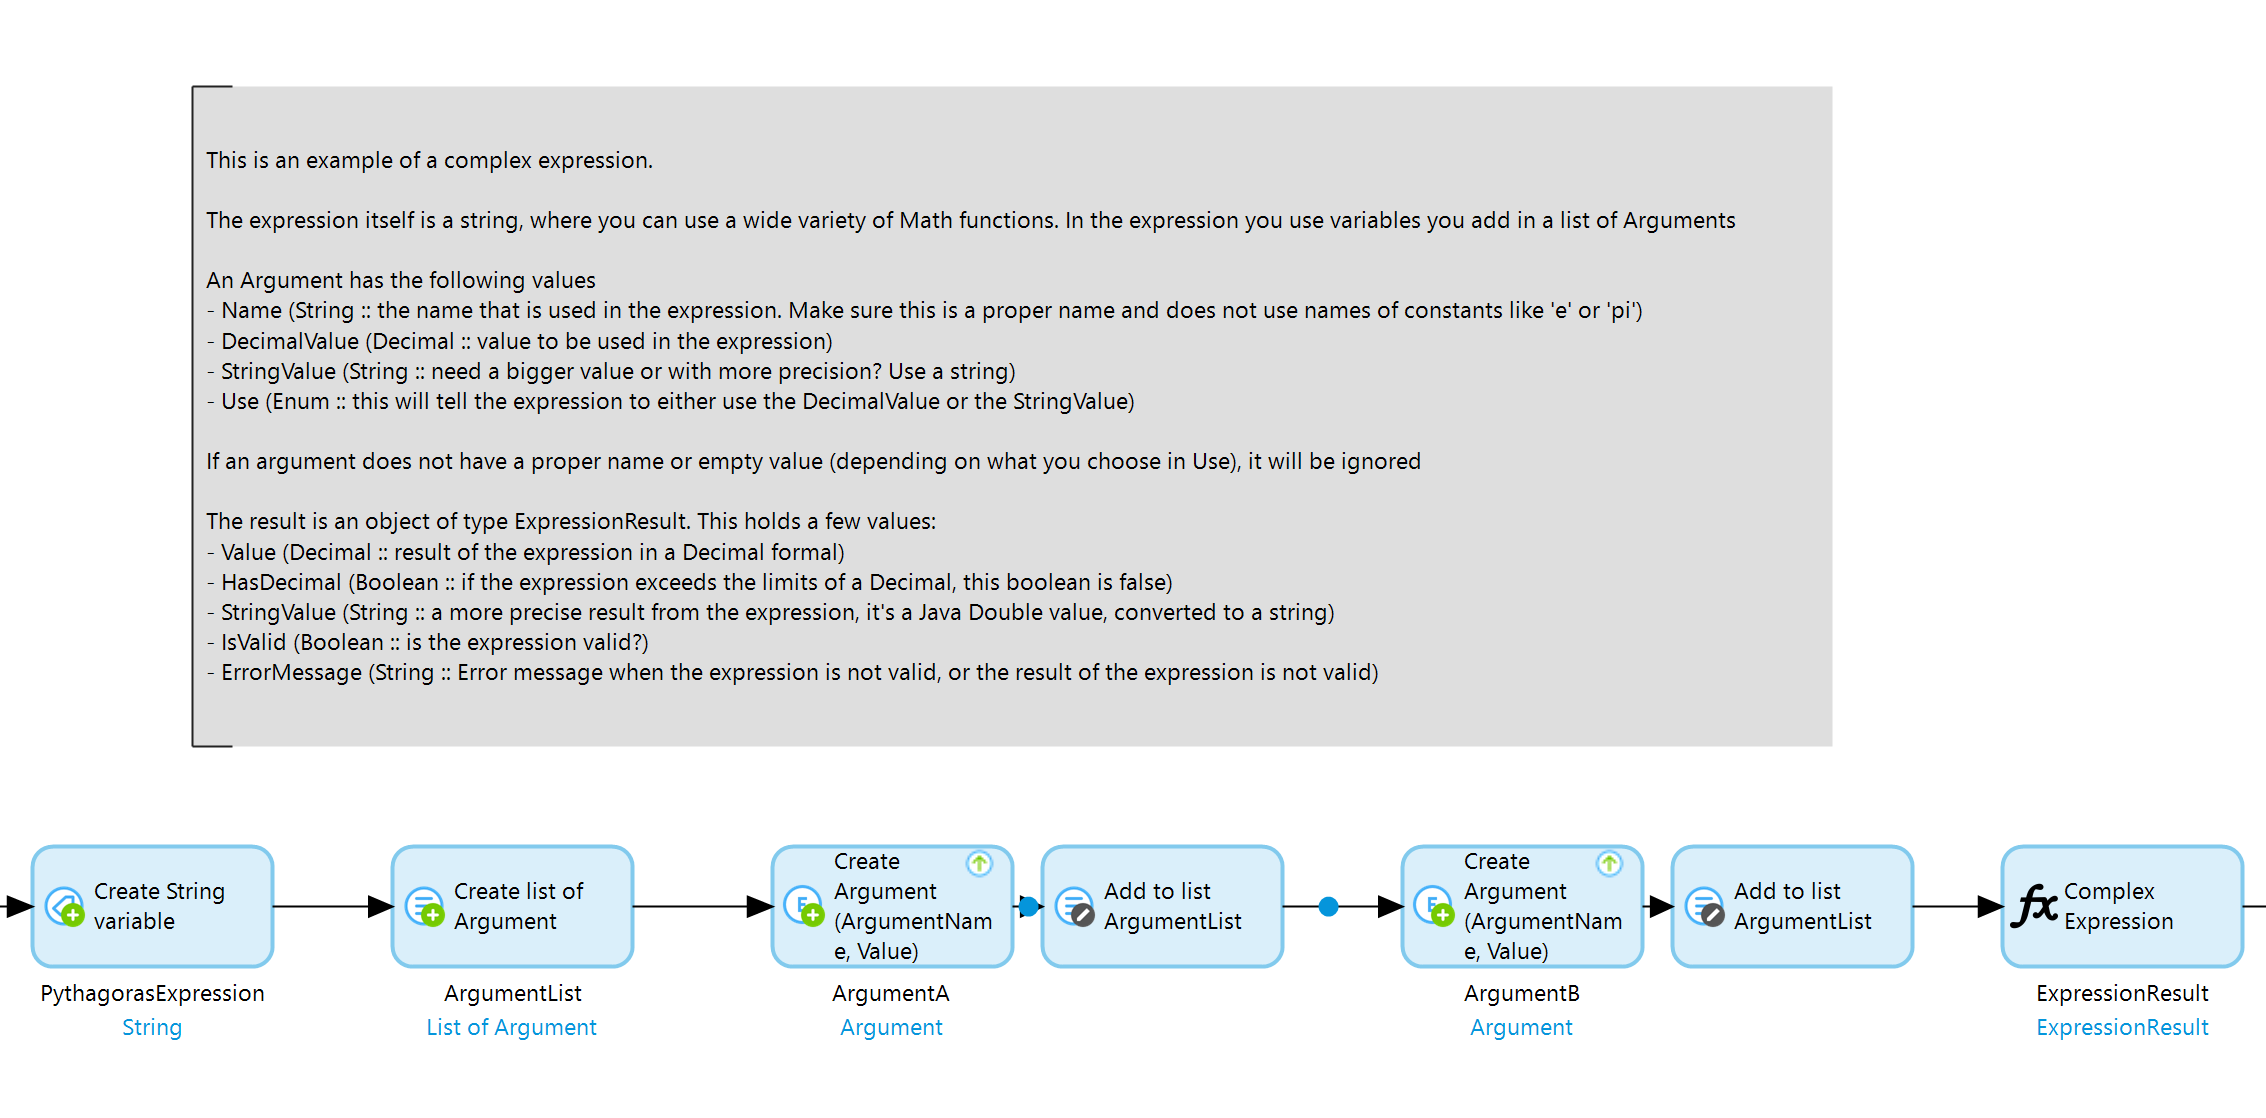
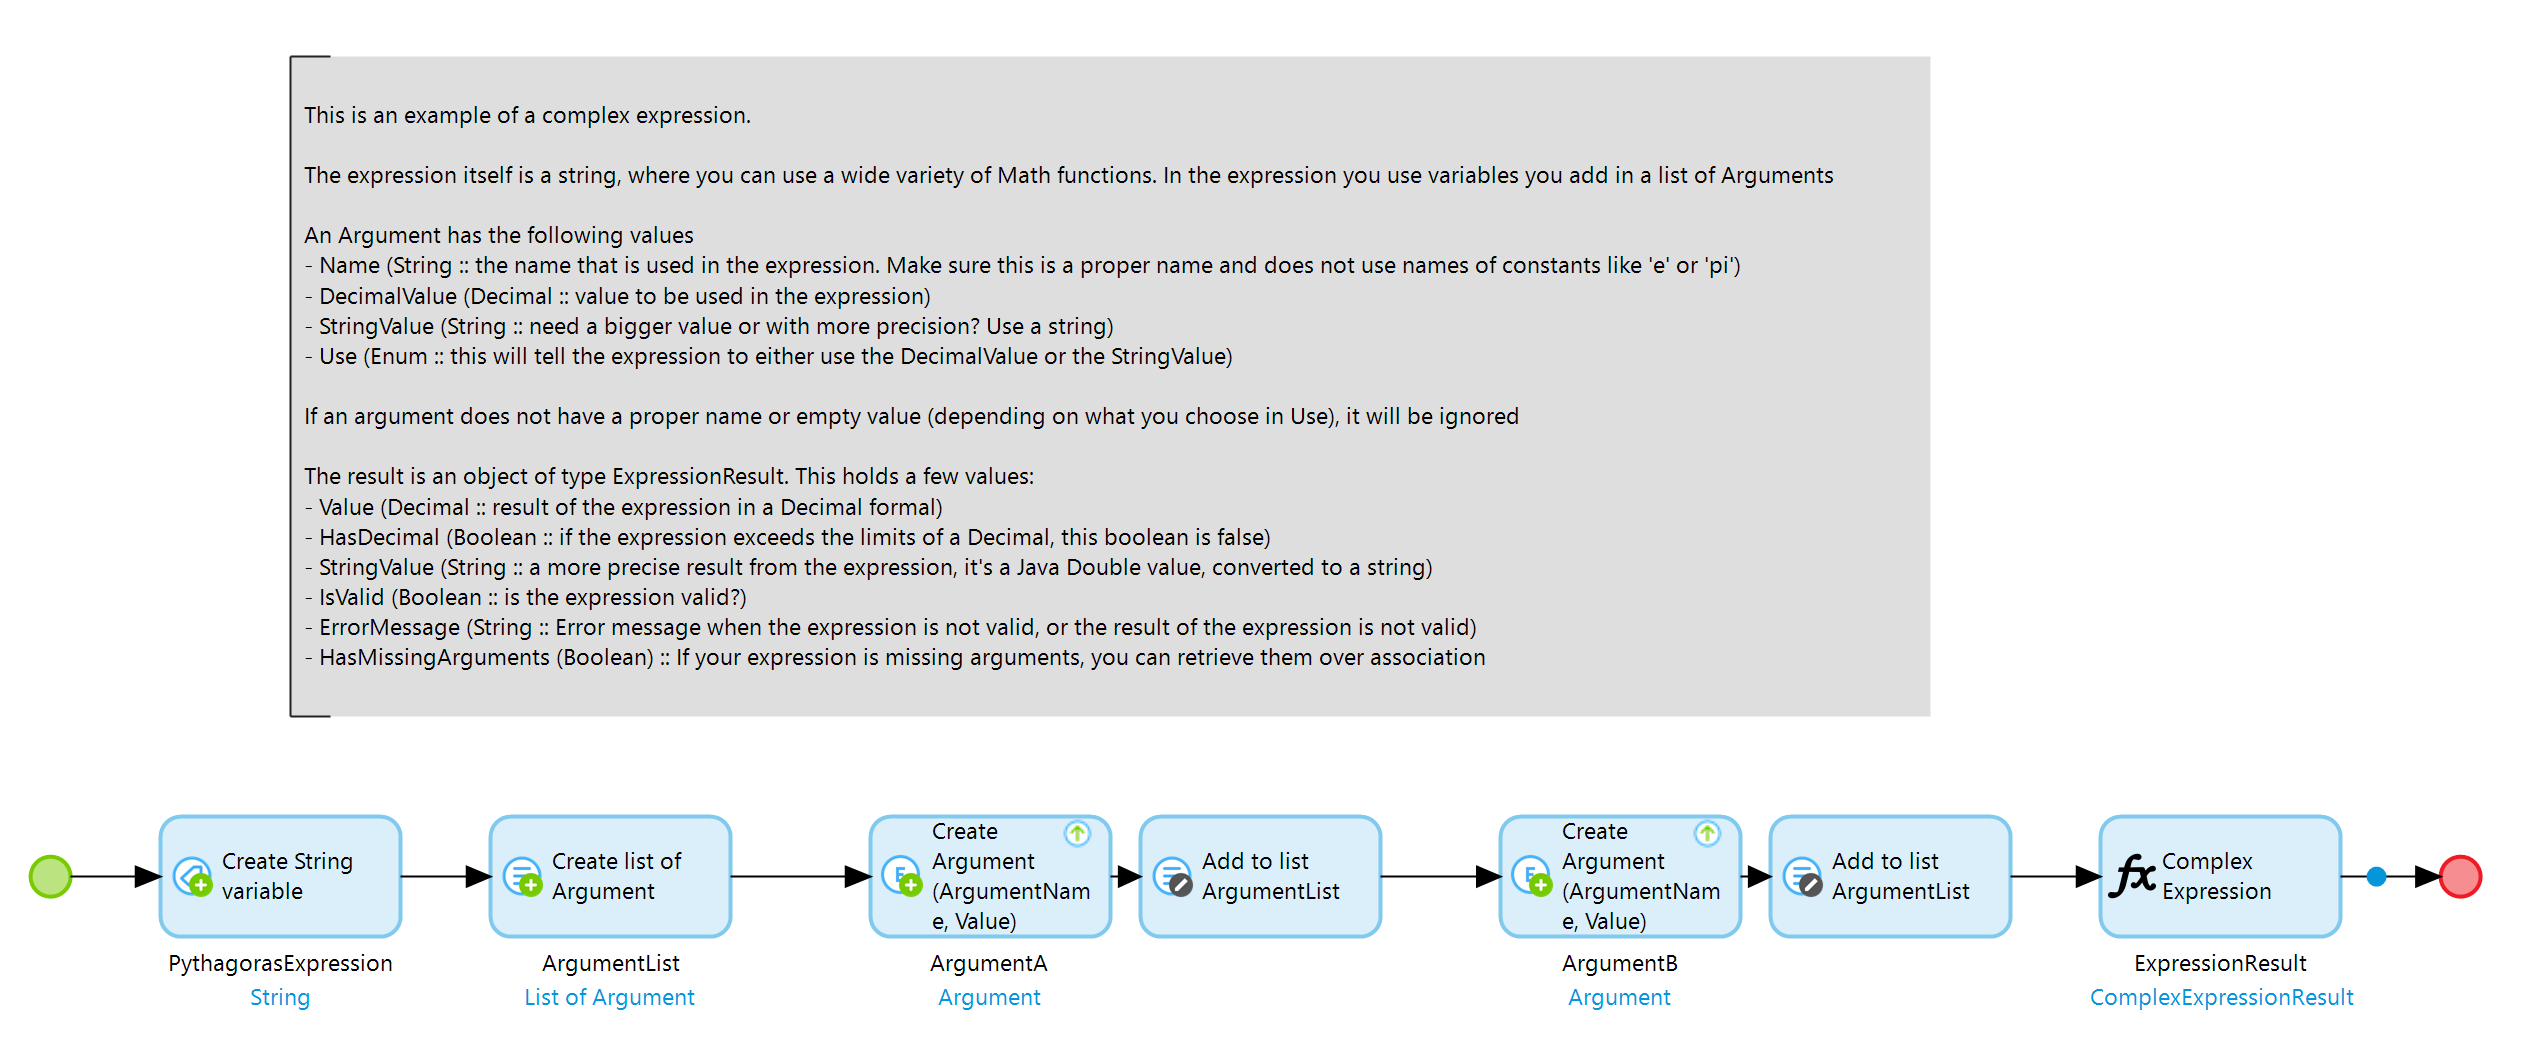
Update README

Changed region(s): [[0.0618, 0.0304, 0.8341, 0.6996], [0.0, 0.73, 1.0, 0.9734]]

diff --git a/README.md b/README.md
@@ -35,6 +35,10 @@ Do you feel the need to do more complex calculations in Mendix, but see a lack i
 
 - **ConvertIntToBaseString** - Do you need to represent an Integer (base10) into another form, for example Octal (base8) or Hex (base16)?
 
+### Validation
+
+- **ValidateComplexExpression** - If you are saving a complex expression, for example for later use, you might want to validate this beforehand. Also, over association you can find the used arguments for this expression.
+
 ## Syntax
 
 The expressions and functions you write can use a whole range of built-in functions and constants. These can be found at [https://github.com/mariuszgromada/MathParser.org-mXparser#built-in-tokens](https://github.com/mariuszgromada/MathParser.org-mXparser#built-in-tokens)
